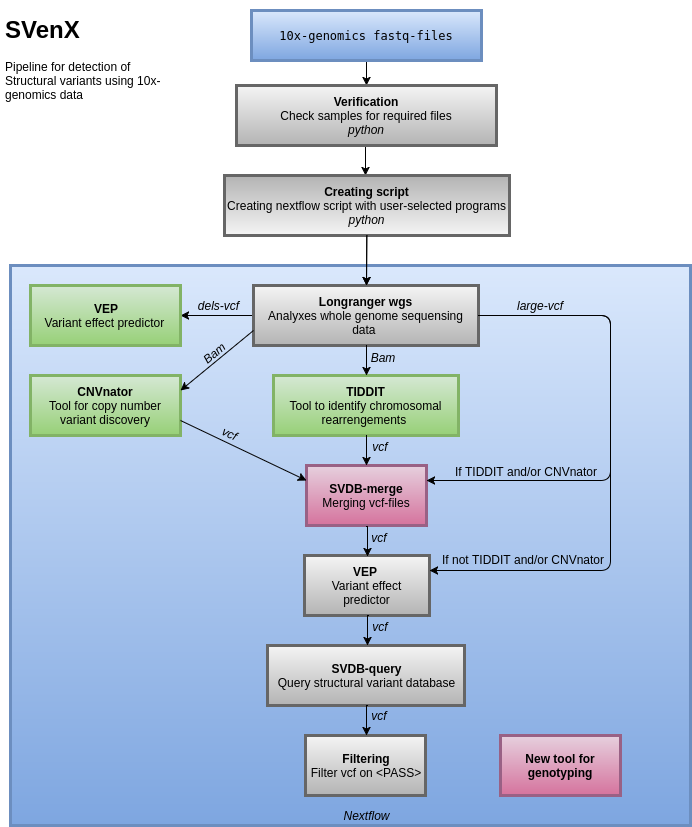
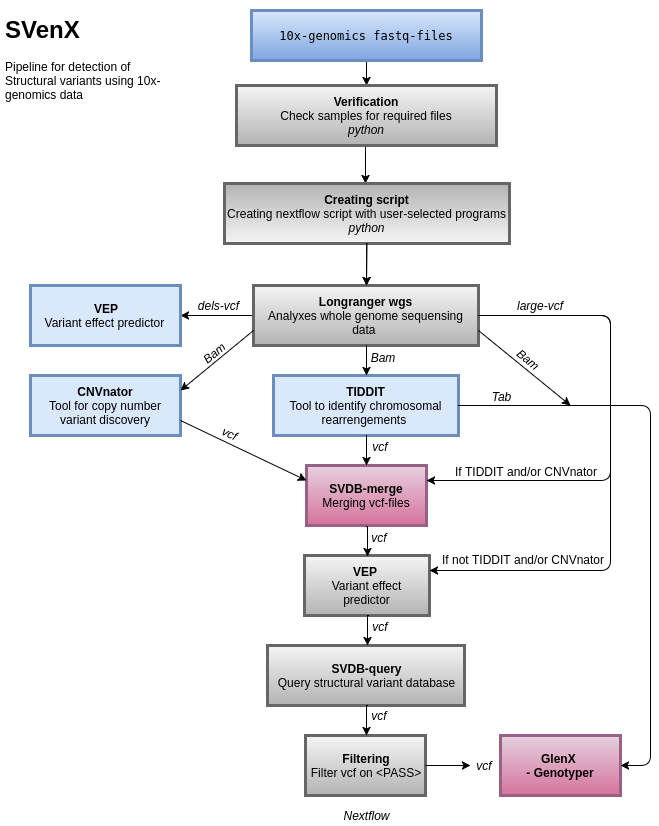
modified:   SVenX_main.py 	modified:   SVenX_pipe.png 	modified:   nextflow_scripts/longranger_wgs.nf

diff --git a/SVenX_main.py b/SVenX_main.py
@@ -210,6 +210,7 @@ def create_script (wgs_script, vep_script, TIDDIT_script, CNVnator_script, annot
 		print 'VEP_SVDB.nf script created'
 
 
+	# If TIDDIT and/or CNVnator was not selected, create script for only vep and SVDB 
 	else: 	
 		print 'creating vep and SVDB query script for longranger wgs large_svs.vcf'
 
